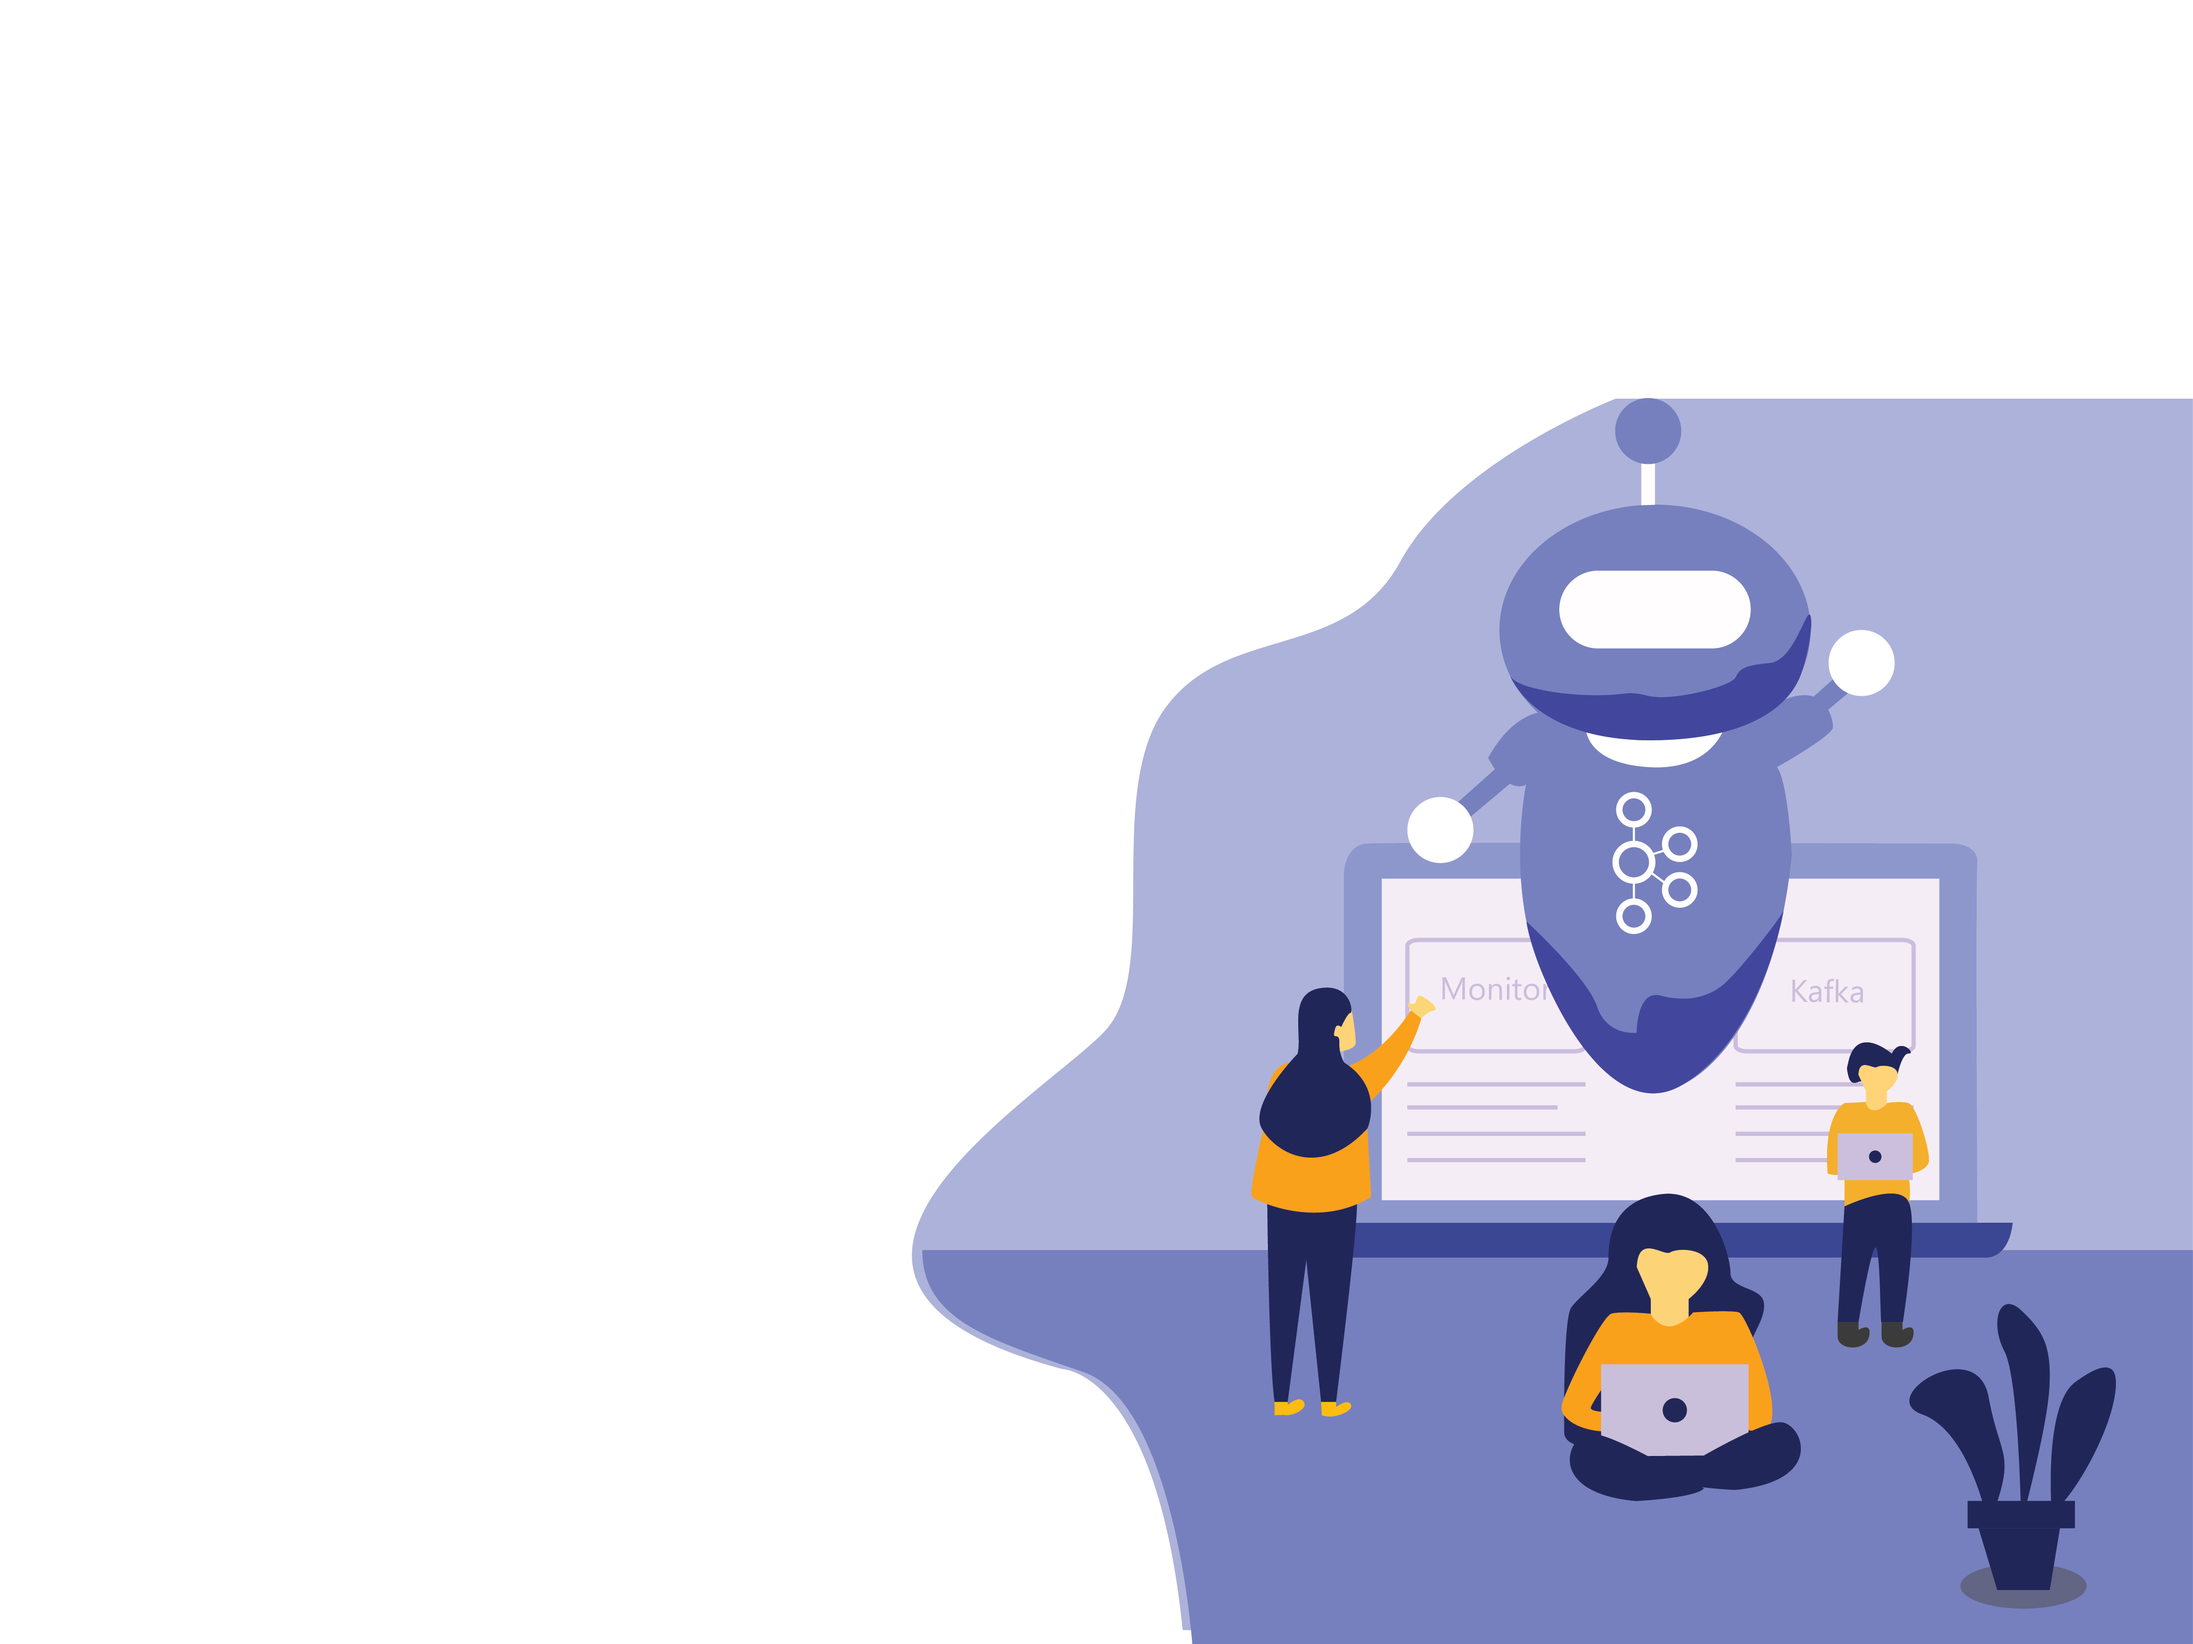
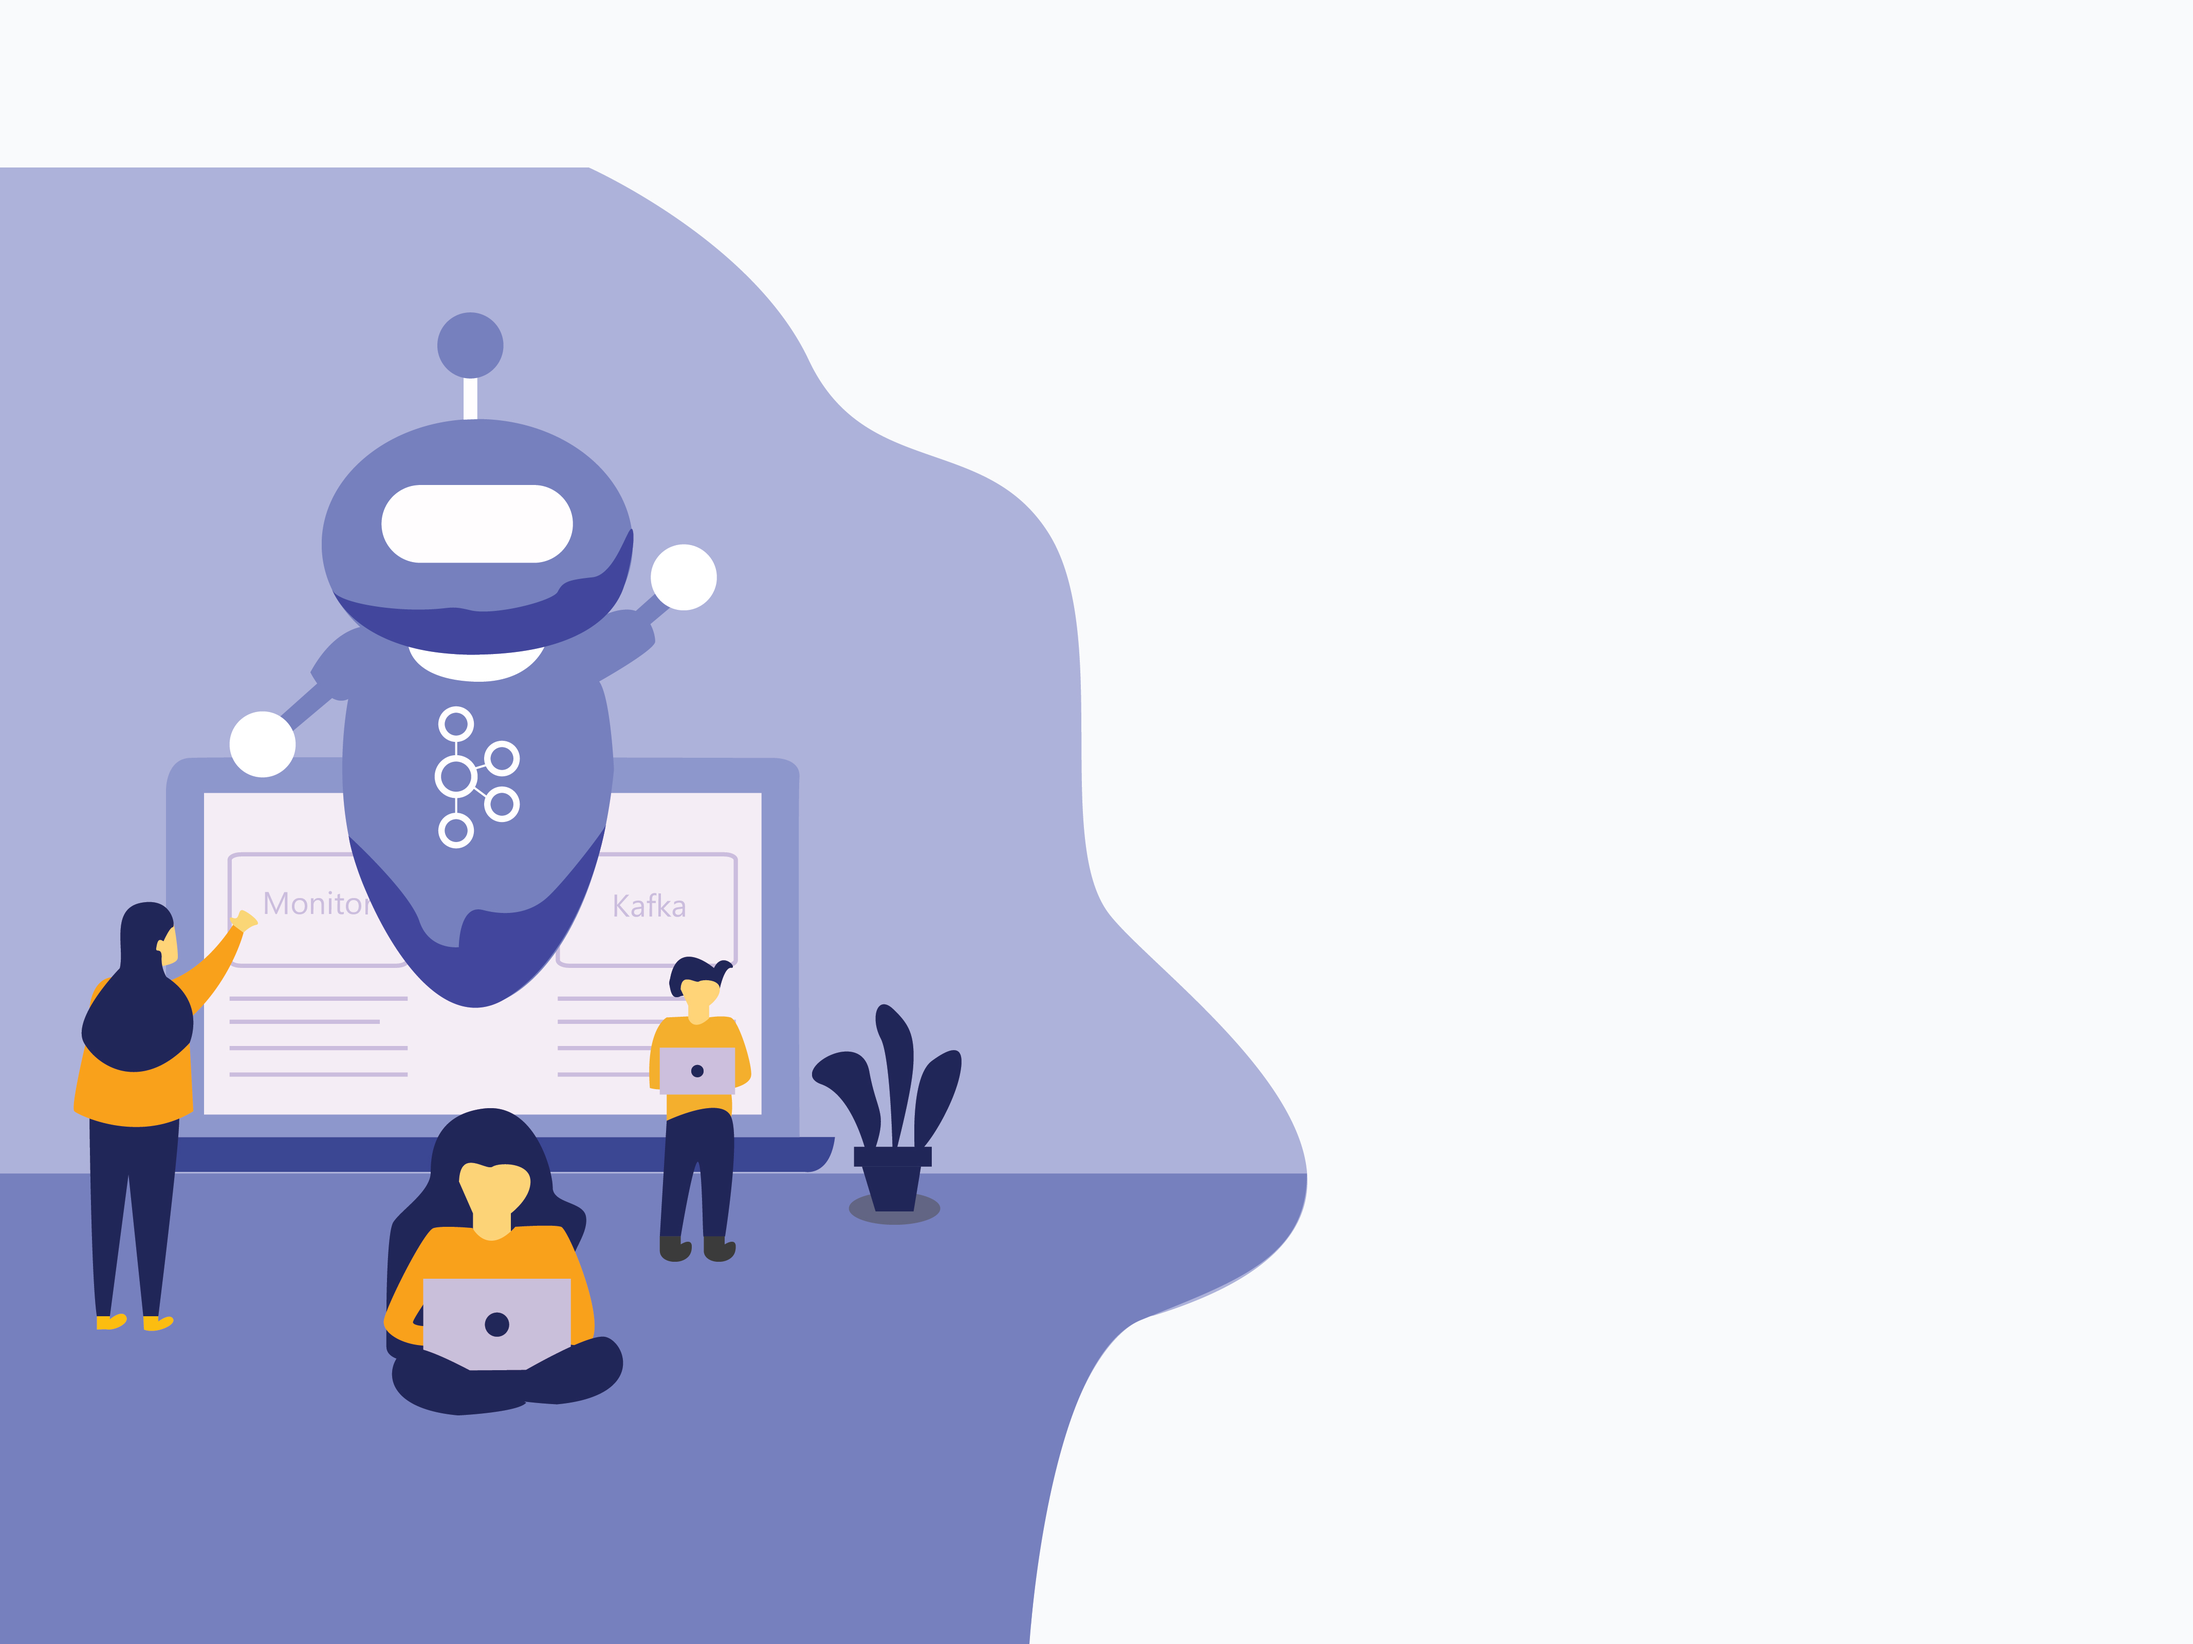
layout kafka, issue, csv

diff --git a/src/app/ews-kafka/ews-kafka.component.css b/src/app/ews-kafka/ews-kafka.component.css
@@ -27,16 +27,15 @@ header .header-content {
   header .header-content{
     position: absolute;
     top: 12%;
-    left: 3%;
-    -webkit-transform: translateY(-30%);
-    -ms-transform: translateY(-30%);
+    left: 60%;
+    -webkit-transform: translateY(-50%);
+    -ms-transform: translateY(-50%);
     transform: translateY(-30%);
-    padding: 0 50px;
   }
 
   h1 {
     font-weight: 700;
-    font-size:40px;
+    font-size:50px;
     font-family: 'Open Sans', 'Helvetica Neue', Arial, sans-serif;
     margin-bottom: 10%;;
   }
@@ -55,7 +54,7 @@ header .header-content {
     height: 70%;
     overflow: auto;
     width: 35%;
-    margin-left: 6%;
+    margin-left: 60%;
     border-radius: 1.5em;
   }
 }
@@ -67,7 +66,7 @@ header .header-content {
   }
   header .header-content{
     position: absolute;
-    top: 10%;
+    top: 7%;
     left: 5%;
     -webkit-transform: translateY(-30%);
     -ms-transform: translateY(-30%);
@@ -85,17 +84,17 @@ header .header-content {
   table {
     background: #f4edf5;
     font-weight: 600;
-    width: 88%;
-    font-size: 20%;
+    width: 90%;
+    font-size: 15%;
     margin: 6%;
   }
 
   .example-container {
     background: #8d97cc;
-    margin-top: 9%;
-    height: 70%;
-    overflow: auto;
-    width: 35%;
+    margin-top: 7%;
+    height: 50%;
+    overflow-y: auto;
+    width: 50%;
     margin-left: 9%;
     border-radius: 1.5em;
   }
@@ -207,7 +206,7 @@ header .header-content {
     background: #f4edf5;
     font-weight: 600;
     width: 88%;
-    font-size: 20%;
+    font-size: 15%;
     margin: 6%;
   }
 
@@ -216,7 +215,8 @@ header .header-content {
     margin-top: 7%;
     height: 70%;
     overflow: auto;
-    width: 35%;
+    overflow-y: auto;
+    width: 90%;
     margin-left: 6%;
     border-radius: 1.5em;
   }

diff --git a/src/app/ews-issue/ews-issue.component.html b/src/app/ews-issue/ews-issue.component.html
@@ -5,10 +5,21 @@
     <form [formGroup]="time" (ngSubmit)="onSubmit()">
     <div class='formDate'>
     <mat-label>Choose Date</mat-label>
-    <mat-select class="form-control" formControlName="issueDate">
+    <!-- <input matInput [matDatepicker]="picker" class="form-control" formControlName="issueDate">
+    <mat-datepicker-toggle matSuffix [for]="picker">
+    <mat-icon matDatepickerToggleIcon>keyboard_arrow_down</mat-icon>
+    </mat-datepicker-toggle>
+    <mat-datepicker #picker></mat-datepicker> -->
+
+    <mat-form-field  class="form-control" formControlName="issueDate">
+      <input matInput [min]="minDate" [max]="maxDate" [matDatepicker]="picker">
+      <mat-datepicker-toggle matSuffix [for]="picker"></mat-datepicker-toggle>
+      <mat-datepicker touchUi #picker></mat-datepicker>
+    </mat-form-field>
+    <!-- <mat-select class="form-control" formControlName="issueDate">
       <mat-option>None</mat-option>
       <mat-option *ngFor="let state of states" [value]="state">{{state}}</mat-option>
-    </mat-select>
+    </mat-select> -->
     </div>
       <div class="formTime">
       <mat-label>Choose Time</mat-label>

diff --git a/src/app/write-csv/write-csv.component.ts b/src/app/write-csv/write-csv.component.ts
@@ -13,10 +13,10 @@ import { Observable } from 'rxjs';
 export class WriteCsvComponent implements OnInit {
   time: FormGroup;
   states: string[] = [
-    '0000','01.00','02.00','03.00','04.00','05.00',
+    '00.00','01.00','02.00','03.00','04.00','05.00',
     '06.00','07.00','0800','09.00','10.00','11.00',
     '12.00','13.00','14.00','15.00','16.00','17.00',
-    '18.00','19.00','20.00','21.00','22.00','2300'
+    '18.00','19.00','20.00','21.00','22.00','23.00'
   ];
 
   group: Array<any>;
@@ -38,10 +38,14 @@ export class WriteCsvComponent implements OnInit {
 
   onSubmit(){
     console.log(this.time.value);
-    this.csvService.sendReport(this.time.get('startTime').value, this.time.get('endTime').value, 
+    this.csvService.sendReport(this.convertParameter(this.time.get('startTime').value), this.convertParameter(this.time.get('endTime').value), 
     this.time.get('accountGroup').value ).subscribe(data => {
       this.message = data;
     });
+  }
+
+  convertParameter(parameter:String): String{
+     return parameter.replace('.','');
   }
 
 }

diff --git a/src/app/write-csv/write-csv.component.css b/src/app/write-csv/write-csv.component.css
@@ -7,7 +7,7 @@ header {
     background-size: cover;
     -o-background-size: cover;
     background-position: center;
-    background-image: url('./images/bg_csv.jpg');
+    background-image: url('./images/write-csv.jpg');
     color: #3a4099;
   }
   header .header-content {

diff --git a/src/app/ews-issue/ews-issue.component.css b/src/app/ews-issue/ews-issue.component.css
@@ -7,7 +7,7 @@ header {
     background-size: cover;
     -o-background-size: cover;
     background-position: center;
-    background: wheat;
+    background-image: url('./images/fix-issue.jpg');
     color: #3a4099;
   }
   header .header-content {
